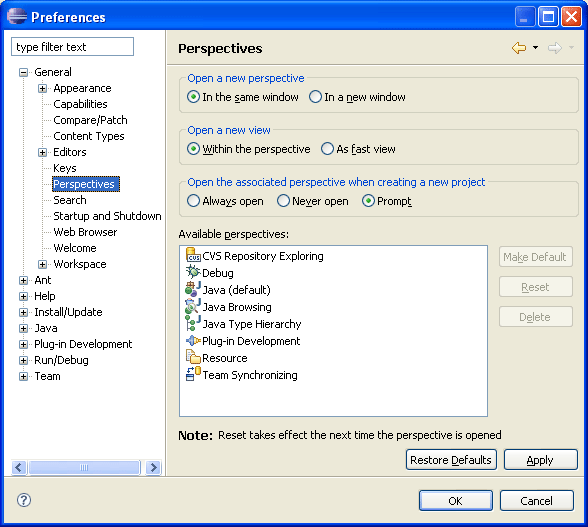
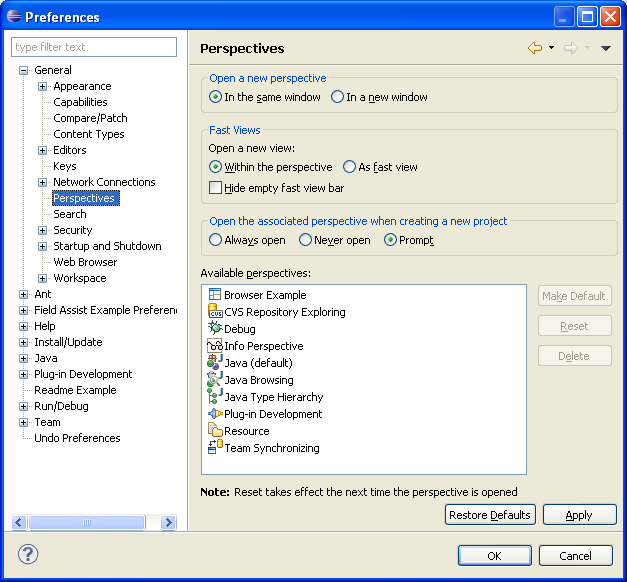
Bug 287986 Update docs for the new Fast View preference

diff --git a/bundles/org.eclipse.platform.doc.user/concepts/concepts-21.htm b/bundles/org.eclipse.platform.doc.user/concepts/concepts-21.htm
@@ -2,7 +2,7 @@
 <html lang="en">
 <HEAD>
 
-<meta name="copyright" content="Copyright (c) IBM Corporation and others 2000, 2005. This page is made available under license. For full details see the LEGAL in the documentation book that contains this page." >
+<meta name="copyright" content="Copyright (c) IBM Corporation and others 2000, 2009. This page is made available under license. For full details see the LEGAL in the documentation book that contains this page." >
 
 <META HTTP-EQUIV="Content-Type" CONTENT="text/html; charset=ISO-8859-1">
 <META HTTP-EQUIV="Content-Style-Type" CONTENT="text/css">
@@ -30,7 +30,13 @@ for details.
   left of the Workbench window. When you click the toolbar button for a fast view, 
   that view opens temporarily in the current perspective (overlaying it). As soon as you click 
   outside that view or the view loses focus it is hidden again. The fast view bar can also be docked 
-  on the other sides of the Workbench window.</P>
+  on the other sides of the Workbench window.</P> 
+<P CLASS="Para" Label=Type>  
+ By default the fast view bar is always visible. You can use the
+<a class="command-link" href='javascript:executeCommand("org.eclipse.ui.window.preferences(preferencePageId=org.eclipse.ui.preferencePages.Perspectives)")'>
+<img src="PLUGINS_ROOT/org.eclipse.help/command_link.png">
+<b>General &gt; Perspectives</b></a>
+  preference page to hide the fast view bar if it is empty.</P>
 <P CLASS="Para" Label=Type>
 You can create a new fast view by dragging any open view to the
 fast view bar or by selecting <b>Fast View</b> from the menu that opens when you
@@ -47,6 +53,9 @@ Toolbars</a></P>
 <a href="../tasks/tasks-9b.htm">Creating fast views</a><a href="../tasks/tasks-3e.htm"><br>
 Moving and docking views</a><br>
 <a href="../gettingStarted/qs-39g.htm">Maximizing a view or editor</a></P>
+
+<p><img border="0" src="../images/ngrelr.png" alt="Related reference." ><br>
+<a href="../reference/ref-3a.htm">Fast View bar</a></P>
 
 
 </body>

diff --git a/bundles/org.eclipse.platform.doc.user/tasks/tasks-9c.htm b/bundles/org.eclipse.platform.doc.user/tasks/tasks-9c.htm
@@ -2,7 +2,7 @@
 <html lang="en">
 <HEAD>
 
-<meta name="copyright" content="Copyright (c) IBM Corporation and others 2000, 2005. This page is made available under license. For full details see the LEGAL in the documentation book that contains this page." >
+<meta name="copyright" content="Copyright (c) IBM Corporation and others 2000, 2009. This page is made available under license. For full details see the LEGAL in the documentation book that contains this page." >
 
 <META HTTP-EQUIV="Content-Type" CONTENT="text/html; charset=ISO-8859-1">
 <META HTTP-EQUIV="Content-Style-Type" CONTENT="text/css">
@@ -84,6 +84,12 @@ the fast view's toolbar </P>
   bar (or close the fast view and then drag its button from the shortcut bar) 
   and drop it on the workbench like a normal view.</P>
 <p></p>
+<P CLASS="Para">
+An empty fast view bar can be hidden using the 'Hide empty fast view bar' preference on the
+<a class="command-link" href='javascript:executeCommand("org.eclipse.ui.window.preferences(preferencePageId=org.eclipse.ui.preferencePages.Perspectives)")'>
+<img src="PLUGINS_ROOT/org.eclipse.help/command_link.png">
+<b>General &gt; Perspectives</b></a>
+  preference page.</P>
 
 <P><img border="0" src="../images/ngrelc.png" alt="Related concepts."  ><br>
   <a href="../concepts/concepts-5.htm">Views</a><br>

diff --git a/bundles/org.eclipse.platform.doc.user/reference/ref-15.htm b/bundles/org.eclipse.platform.doc.user/reference/ref-15.htm
@@ -1,7 +1,7 @@
 <!DOCTYPE HTML PUBLIC "-//W3C//DTD HTML 4.0 Transitional//EN"><html lang="en">
 <HEAD>
 
-<meta name="copyright" content="Copyright (c) IBM Corporation and others 2000, 2005. This page is made available under license. For full details see the LEGAL in the documentation book that contains this page." >
+<meta name="copyright" content="Copyright (c) IBM Corporation and others 2000, 2009. This page is made available under license. For full details see the LEGAL in the documentation book that contains this page." >
 
 <META HTTP-EQUIV="Content-Type" CONTENT="text/html; charset=ISO-8859-1">
 <META HTTP-EQUIV="Content-Style-Type" CONTENT="text/css">
@@ -76,6 +76,24 @@ and docked to the side of the current perspective.
 Within the perspective
 </TD>
 </TR>
+
+<TR>
+<TD ROWSPAN="1" COLSPAN="1" valign="top" align="left">
+<P CLASS="Para">
+Hide empty fast view bar
+</P>
+</TD>
+<TD ROWSPAN="1" COLSPAN="1" valign="top" align="left">
+<P CLASS="Para">
+Use this option to specify visibility of an empty fast view bar. If this preference is set and the current perspective 
+doesn't contain any fast views, the fast view bar becomes invisible.
+</P>
+</TD>
+<TD>
+Fast view bar is always visible
+</TD>
+</TR>
+
 <TR>
 <TD ROWSPAN="1" COLSPAN="1" valign="top" align="left">
 <P CLASS="Para">

diff --git a/bundles/org.eclipse.platform.doc.user/reference/ref-3a.htm b/bundles/org.eclipse.platform.doc.user/reference/ref-3a.htm
@@ -17,7 +17,12 @@
 <p>Here is an example of what a fast view bars looks like:&nbsp;</P> 
 <P CLASS="Para">
 <img src="../images/Image211_fastview.png" alt="Fast View Bar" border="0"></P>
-
+<P CLASS="Para">
+By default the fast view bar is always visible. You can use the
+<a class="command-link" href='javascript:executeCommand("org.eclipse.ui.window.preferences(preferencePageId=org.eclipse.ui.preferencePages.Perspectives)")'>
+<img src="PLUGINS_ROOT/org.eclipse.help/command_link.png">
+<b>General &gt; Perspectives</b></a>
+  preference page to hide the fast view bar if it is empty.</P>
 <DIV CLASS="Topic">
 <h3>
 View Buttons</h3>
